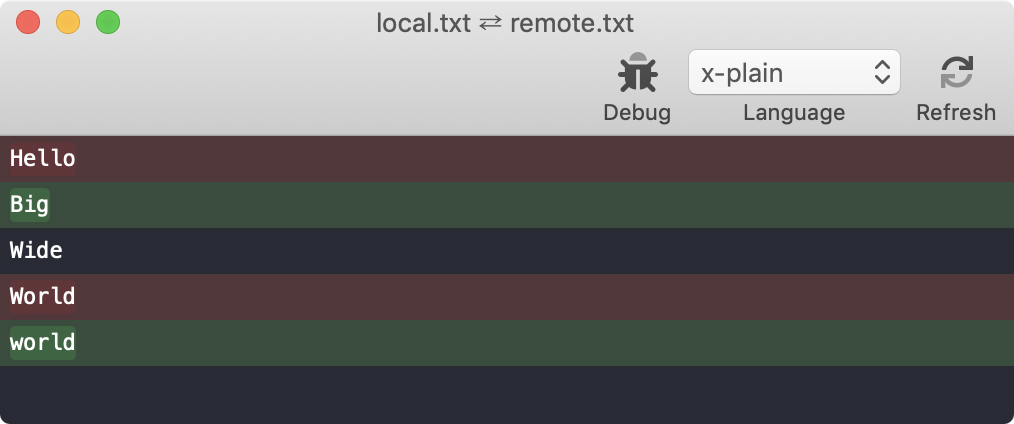
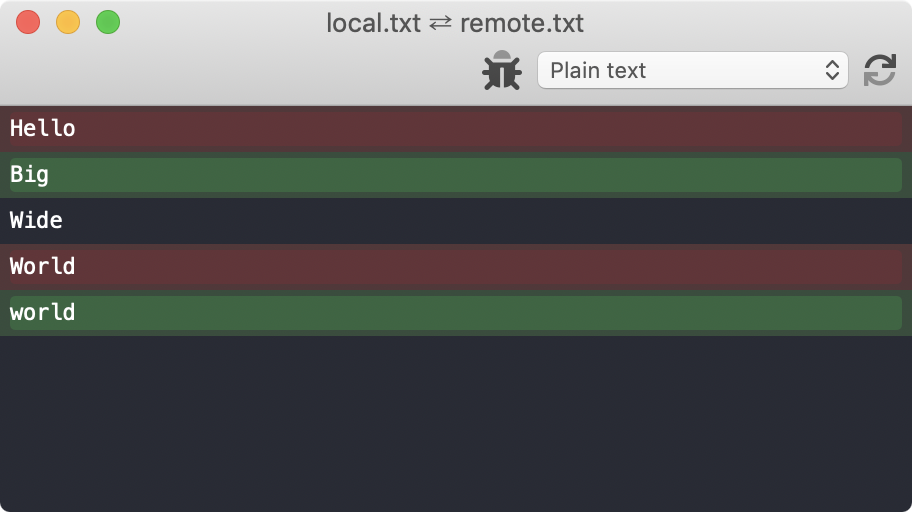
Added more filetypes

diff --git a/Project/PrismCommon/Prism.m b/Project/PrismCommon/Prism.m
@@ -11,14 +11,12 @@
 #import "UTType+ObjC.h"
 #import "PrismCommonUtilities.h"
 
-
 @interface Prism ()
 
 @property (nonatomic, strong) JSContext *context;
 @property (nonatomic, strong) NSDictionary *prismLanguages;
 
 @end
-
 
 @implementation Prism
 
@@ -32,22 +30,11 @@
         NSString *prismSourcecode = [NSString stringWithContentsOfURL:prismURL encoding:NSUTF8StringEncoding error:NULL];
         [_context evaluateScript:prismSourcecode withSourceURL:prismURL];
         
-        _prismLanguages = @{
-                            @"com.sun.java-source" : @"java",
-                            @"net.daringfireball.markdown" : @"markdown",
-                            @"org.codehaus.groovy-source" : @"groovy",
-                            @"org.gradle.source" : @"groovy",
-                            @"org.kotlinlang.source" : @"kotlin",
-                            @"public.c-header" : @"c",
-                            @"public.json" : @"json",
-                            @"public.objective-c-source" : @"objectivec",
-                            @"public.perl-script" : @"perl",
-                            @"public.plain-text" : @"x-plain",
-                            @"public.ruby-script" : @"ruby",
-                            @"public.shell-script" : @"shell",
-                            @"public.xml" : @"xml",
-                            @"public.yaml" : @"yaml",
-                            };
+        NSURL *prismUTIsURL = [[NSBundle bundleForClass:self.class] URLForResource:@"PrismUTIs"
+                                                                     withExtension:@"plist"];
+        
+        _prismLanguages = [NSDictionary dictionaryWithContentsOfURL:prismUTIsURL];
+
     }
     return self;
 }

diff --git a/Project/Prism/Document.m b/Project/Prism/Document.m
@@ -55,10 +55,14 @@
     
     NSMutableDictionary *languageTitles = NSMutableDictionary.new;
     for (NSString *availableLanguage in availableLanguages) {
-        languageTitles[availableLanguage] = NSLocalizedString(availableLanguage, @"");
+        NSDictionary *declaration = [UTType copyDeclarationInUTI:availableLanguage];
+//        Print(@"declaration: %@", declaration);
+        languageTitles[availableLanguage] = NSLocalizedStringWithDefaultValue(availableLanguage, nil, NSBundle.mainBundle, declaration[@"UTTypeDescription"], @"");
     }
     
-    Print(@"languageTitles: %@", languageTitles);
+//    for (NSString *uti in [languageTitles.allKeys sortedArrayUsingSelector:@selector(compare:)]) {
+//        Print(@"\"%@\" = \"%@\";", uti, languageTitles[uti]);
+//    }
     
     availableLanguages = [availableLanguages sortedArrayUsingComparator:^NSComparisonResult(id  _Nonnull obj1, id  _Nonnull obj2) {
         return [languageTitles[obj1] caseInsensitiveCompare:languageTitles[obj2]];
@@ -127,7 +131,7 @@
                                 @"text/x-ruby" : @"public.ruby-script",
                                 };
     
-    Print(@"mimeType: %@", mimeType);
+//    Print(@"mimeType: %@", mimeType);
     
     if (mimeTypes[mimeType]) return mimeTypes[mimeType];
     
@@ -137,6 +141,8 @@
                                                                                 inTag:path.pathExtension
                                                                     inConformingToUTI:nil];
     
+//    Print(@"preferredIdentifier: %@", preferredIdentifier);
+
     return [self suggestedLanguageForUTIs:@[preferredIdentifier]];
 }
 
